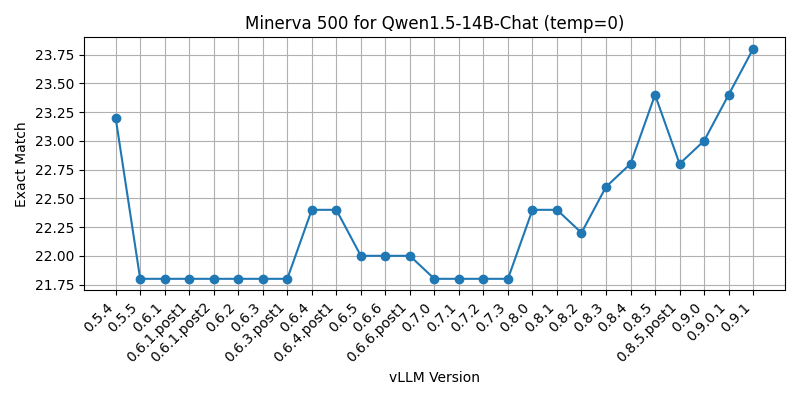
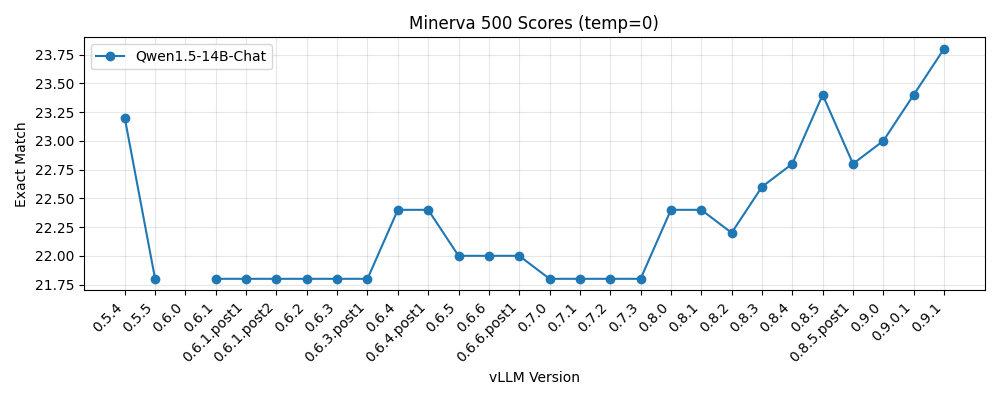
fix versioning

diff --git a/beaker/render_results.py b/beaker/render_results.py
@@ -2,48 +2,44 @@ import matplotlib.pyplot as plt
 from packaging import version
 
 # Data pulled from Beaker
-data = [
-    {"model": "Qwen/Qwen1.5-14B-Chat", "score": 0.226, "vllm_version": "0.8.3"},
-    {"model": "Qwen/Qwen1.5-14B-Chat", "score": 0.224, "vllm_version": "0.8.0"},
-    {"model": "Qwen/Qwen1.5-14B-Chat", "score": 0.22, "vllm_version": "0.6.6.post1"},
-    {"model": "Qwen/Qwen1.5-14B-Chat", "score": 0.228, "vllm_version": "0.8.4"},
-    {"model": "Qwen/Qwen1.5-14B-Chat", "score": 0.228, "vllm_version": "0.8.5.post1"},
-    {"model": "Qwen/Qwen1.5-14B-Chat", "score": 0.238, "vllm_version": "0.9.1"},
-    {"model": "Qwen/Qwen1.5-14B-Chat", "score": 0.222, "vllm_version": "0.8.2"},
-    {"model": "Qwen/Qwen1.5-14B-Chat", "score": 0.22, "vllm_version": "0.6.6"},
-    {"model": "Qwen/Qwen1.5-14B-Chat", "score": 0.224, "vllm_version": "0.8.1"},
-    {"model": "Qwen/Qwen1.5-14B-Chat", "score": 0.224, "vllm_version": "0.6.4.post1"},
-    {"model": "Qwen/Qwen1.5-14B-Chat", "score": 0.22, "vllm_version": "0.6.5"},
-    {"model": "Qwen/Qwen1.5-14B-Chat", "score": 0.23, "vllm_version": "0.9.0"},
-    {"model": "Qwen/Qwen1.5-14B-Chat", "score": 0.234, "vllm_version": "0.9.0.1"},
-    {"model": "Qwen/Qwen1.5-14B-Chat", "score": 0.234, "vllm_version": "0.8.5"},
-    {"model": "Qwen/Qwen1.5-14B-Chat", "score": 0.218, "vllm_version": "0.7.2"},
-    {"model": "Qwen/Qwen1.5-14B-Chat", "score": 0.218, "vllm_version": "0.7.3"},
-    {"model": "Qwen/Qwen1.5-14B-Chat", "score": 0.218, "vllm_version": "0.5.5"},
-    {"model": "Qwen/Qwen1.5-14B-Chat", "score": 0.218, "vllm_version": "0.7.0"},
-    {"model": "Qwen/Qwen1.5-14B-Chat", "score": 0.218, "vllm_version": "0.6.2"},
-    {"model": "Qwen/Qwen1.5-14B-Chat", "score": 0.218, "vllm_version": "0.7.1"},
-    {"model": "Qwen/Qwen1.5-14B-Chat", "score": 0.224, "vllm_version": "0.6.4"},
-    {"model": "Qwen/Qwen1.5-14B-Chat", "score": 0.218, "vllm_version": "0.6.1.post1"},
-    {"model": "Qwen/Qwen1.5-14B-Chat", "score": 0.218, "vllm_version": "0.6.3.post1"},
-    {"model": "Qwen/Qwen1.5-14B-Chat", "score": 0.218, "vllm_version": "0.6.1"},
-    {"model": "Qwen/Qwen1.5-14B-Chat", "score": 0.218, "vllm_version": "0.6.3"},
-    {"model": "Qwen/Qwen1.5-14B-Chat", "score": 0.218, "vllm_version": "0.6.1.post2"},
-    {"model": "Qwen/Qwen1.5-14B-Chat", "score": 0.232, "vllm_version": "0.5.4"},
-]
+data = [{'model': 'Qwen/Qwen3-14B', 'score': 0.394, 'vllm_version': '0.9.0'}, {'model': 'Qwen/Qwen2.5-14B-Instruct', 'score': 0.746, 'vllm_version': '0.8.5.post1'}, {'model': 'Qwen/Qwen2.5-14B-Instruct', 'score': 0.742, 'vllm_version': '0.8.2'}, {'model': 'Qwen/Qwen2.5-14B-Instruct', 'score': 0.736, 'vllm_version': '0.9.1'}, {'model': 'Qwen/Qwen2.5-14B-Instruct', 'score': 0.736, 'vllm_version': '0.9.0'}, {'model': 'Qwen/Qwen2.5-14B-Instruct', 'score': 0.742, 'vllm_version': '0.8.3'}, {'model': 'Qwen/Qwen2.5-14B-Instruct', 'score': 0.732, 'vllm_version': '0.7.1'}, {'model': 'Qwen/Qwen2.5-14B-Instruct', 'score': 0.746, 'vllm_version': '0.8.1'}, {'model': 'Qwen/Qwen2.5-14B-Instruct', 'score': 0.746, 'vllm_version': '0.8.5'}, {'model': 'Qwen/Qwen2.5-14B-Instruct', 'score': 0.736, 'vllm_version': '0.6.4.post1'}, {'model': 'Qwen/Qwen2.5-14B-Instruct', 'score': 0.738, 'vllm_version': '0.8.4'}, {'model': 'Qwen/Qwen2.5-14B-Instruct', 'score': 0.736, 'vllm_version': '0.9.0.1'}, {'model': 'Qwen/Qwen2.5-14B-Instruct', 'score': 0.732, 'vllm_version': '0.7.3'}, {'model': 'Qwen/Qwen2.5-14B-Instruct', 'score': 0.736, 'vllm_version': '0.6.5'}, {'model': 'Qwen/Qwen2.5-14B-Instruct', 'score': 0.742, 'vllm_version': '0.8.0'}, {'model': 'Qwen/Qwen2.5-14B-Instruct', 'score': 0.736, 'vllm_version': '0.6.3.post1'}, {'model': 'Qwen/Qwen2.5-14B-Instruct', 'score': 0.732, 'vllm_version': '0.7.2'}, {'model': 'Qwen/Qwen2.5-14B-Instruct', 'score': 0.736, 'vllm_version': '0.6.4'}, {'model': 'Qwen/Qwen2.5-14B-Instruct', 'score': 0.736, 'vllm_version': '0.6.2'}, {'model': 'Qwen/Qwen2.5-14B-Instruct', 'score': 0.736, 'vllm_version': '0.6.6.post1'}, {'model': 'Qwen/Qwen2.5-14B-Instruct', 'score': 0.736, 'vllm_version': '0.6.6'}, {'model': 'Qwen/Qwen2.5-14B-Instruct', 'score': 0.736, 'vllm_version': '0.6.3'}, {'model': 'Qwen/Qwen2.5-14B-Instruct', 'score': 0.736, 'vllm_version': '0.6.1.post2'}, {'model': 'Qwen/Qwen2.5-14B-Instruct', 'score': 0.736, 'vllm_version': '0.6.1'}, {'model': 'Qwen/Qwen2.5-14B-Instruct', 'score': 0.736, 'vllm_version': '0.6.1.post1'}, {'model': 'Qwen/Qwen2.5-14B-Instruct', 'score': 0.736, 'vllm_version': '0.6.0'}, {'model': 'Qwen/Qwen2.5-14B-Instruct', 'score': 0.738, 'vllm_version': '0.5.5'}, {'model': 'Qwen/Qwen2.5-14B-Instruct', 'score': 0.73, 'vllm_version': '0.5.4'}, {'model': 'Qwen/Qwen1.5-14B-Chat', 'score': 0.214, 'vllm_version': '0.8.2'}, {'model': 'Qwen/Qwen1.5-14B-Chat', 'score': 0.22, 'vllm_version': '0.9.1'}, {'model': 'Qwen/Qwen1.5-14B-Chat', 'score': 0.228, 'vllm_version': '0.8.5.post1'}, {'model': 'Qwen/Qwen1.5-14B-Chat', 'score': 0.23, 'vllm_version': '0.9.0'}, {'model': 'Qwen/Qwen1.5-14B-Chat', 'score': 0.224, 'vllm_version': '0.8.0'}, {'model': 'Qwen/Qwen1.5-14B-Chat', 'score': 0.226, 'vllm_version': '0.8.3'}, {'model': 'Qwen/Qwen1.5-14B-Chat', 'score': 0.218, 'vllm_version': '0.7.0'}, {'model': 'Qwen/Qwen1.5-14B-Chat', 'score': 0.224, 'vllm_version': '0.6.4.post1'}, {'model': 'Qwen/Qwen1.5-14B-Chat', 'score': 0.226, 'vllm_version': '0.8.4'}, {'model': 'Qwen/Qwen1.5-14B-Chat', 'score': 0.226, 'vllm_version': '0.8.1'}, {'model': 'Qwen/Qwen1.5-14B-Chat', 'score': 0.218, 'vllm_version': '0.7.3'}, {'model': 'Qwen/Qwen1.5-14B-Chat', 'score': 0.22, 'vllm_version': '0.6.5'}, {'model': 'Qwen/Qwen1.5-14B-Chat', 'score': 0.218, 'vllm_version': '0.6.2'}, {'model': 'Qwen/Qwen1.5-14B-Chat', 'score': 0.218, 'vllm_version': '0.6.3'}, {'model': 'Qwen/Qwen1.5-14B-Chat', 'score': 0.23, 'vllm_version': '0.9.0.1'}, {'model': 'Qwen/Qwen1.5-14B-Chat', 'score': 0.228, 'vllm_version': '0.8.5'}, {'model': 'Qwen/Qwen1.5-14B-Chat', 'score': 0.22, 'vllm_version': '0.6.6'}, {'model': 'Qwen/Qwen1.5-14B-Chat', 'score': 0.218, 'vllm_version': '0.7.2'}, {'model': 'Qwen/Qwen1.5-14B-Chat', 'score': 0.218, 'vllm_version': '0.6.3.post1'}, {'model': 'Qwen/Qwen1.5-14B-Chat', 'score': 0.218, 'vllm_version': '0.7.1'}, {'model': 'Qwen/Qwen1.5-14B-Chat', 'score': 0.22, 'vllm_version': '0.6.6.post1'}, {'model': 'Qwen/Qwen1.5-14B-Chat', 'score': 0.224, 'vllm_version': '0.6.4'}, {'model': 'Qwen/Qwen1.5-14B-Chat', 'score': 0.218, 'vllm_version': '0.6.1.post2'}, {'model': 'Qwen/Qwen1.5-14B-Chat', 'score': 0.218, 'vllm_version': '0.5.5'}, {'model': 'Qwen/Qwen1.5-14B-Chat', 'score': 0.232, 'vllm_version': '0.5.4'}, {'model': 'Qwen/Qwen1.5-14B-Chat', 'score': 0.218, 'vllm_version': '0.6.1.post1'}, {'model': 'Qwen/Qwen1.5-14B-Chat', 'score': 0.218, 'vllm_version': '0.6.1'}, {'model': 'Qwen/Qwen1.5-14B-Chat', 'score': 0.226, 'vllm_version': '0.8.3'}, {'model': 'Qwen/Qwen1.5-14B-Chat', 'score': 0.224, 'vllm_version': '0.8.0'}, {'model': 'Qwen/Qwen1.5-14B-Chat', 'score': 0.22, 'vllm_version': '0.6.6.post1'}, {'model': 'Qwen/Qwen1.5-14B-Chat', 'score': 0.228, 'vllm_version': '0.8.4'}, {'model': 'Qwen/Qwen1.5-14B-Chat', 'score': 0.228, 'vllm_version': '0.8.5.post1'}, {'model': 'Qwen/Qwen1.5-14B-Chat', 'score': 0.238, 'vllm_version': '0.9.1'}, {'model': 'Qwen/Qwen1.5-14B-Chat', 'score': 0.222, 'vllm_version': '0.8.2'}, {'model': 'Qwen/Qwen1.5-14B-Chat', 'score': 0.22, 'vllm_version': '0.6.6'}, {'model': 'Qwen/Qwen1.5-14B-Chat', 'score': 0.224, 'vllm_version': '0.8.1'}, {'model': 'Qwen/Qwen1.5-14B-Chat', 'score': 0.224, 'vllm_version': '0.6.4.post1'}, {'model': 'Qwen/Qwen1.5-14B-Chat', 'score': 0.22, 'vllm_version': '0.6.5'}, {'model': 'Qwen/Qwen1.5-14B-Chat', 'score': 0.23, 'vllm_version': '0.9.0'}, {'model': 'Qwen/Qwen1.5-14B-Chat', 'score': 0.234, 'vllm_version': '0.9.0.1'}, {'model': 'Qwen/Qwen1.5-14B-Chat', 'score': 0.234, 'vllm_version': '0.8.5'}, {'model': 'Qwen/Qwen1.5-14B-Chat', 'score': 0.218, 'vllm_version': '0.7.2'}, {'model': 'Qwen/Qwen1.5-14B-Chat', 'score': 0.218, 'vllm_version': '0.7.3'}, {'model': 'Qwen/Qwen1.5-14B-Chat', 'score': 0.218, 'vllm_version': '0.5.5'}, {'model': 'Qwen/Qwen1.5-14B-Chat', 'score': 0.218, 'vllm_version': '0.7.0'}, {'model': 'Qwen/Qwen1.5-14B-Chat', 'score': 0.218, 'vllm_version': '0.6.2'}, {'model': 'Qwen/Qwen1.5-14B-Chat', 'score': 0.218, 'vllm_version': '0.7.1'}, {'model': 'Qwen/Qwen1.5-14B-Chat', 'score': 0.224, 'vllm_version': '0.6.4'}, {'model': 'Qwen/Qwen1.5-14B-Chat', 'score': 0.218, 'vllm_version': '0.6.1.post1'}, {'model': 'Qwen/Qwen1.5-14B-Chat', 'score': 0.218, 'vllm_version': '0.6.3.post1'}, {'model': 'Qwen/Qwen1.5-14B-Chat', 'score': 0.218, 'vllm_version': '0.6.1'}, {'model': 'Qwen/Qwen1.5-14B-Chat', 'score': 0.218, 'vllm_version': '0.6.3'}, {'model': 'Qwen/Qwen1.5-14B-Chat', 'score': 0.218, 'vllm_version': '0.6.1.post2'}, {'model': 'Qwen/Qwen1.5-14B-Chat', 'score': 0.232, 'vllm_version': '0.5.4'}, {'model': 'Qwen/Qwen3-8B', 'score': 0.4446143372337083}, {'model': 'Qwen/Qwen3-8B', 'score': 0.4388539228639751}, {'model': 'Qwen/Qwen3-8B', 'score': 0.4389461520021281}, {'model': 'Qwen/Qwen3-8B', 'score': 0.43965981660400116}, {'model': 'Qwen/Qwen3-8B', 'score': 0.4377268437299243}, {'model': 'Qwen/Qwen3-8B', 'score': 0.43945492495763444}, {'model': 'Qwen/Qwen3-8B', 'score': 0.43727195711653144}, {'model': 'Qwen/Qwen3-8B', 'score': 0.43659835730971464}, {'model': 'Qwen/Qwen3-8B', 'score': 0.44079075400063183}, {'model': 'Qwen/Qwen3-8B', 'score': 0.4462229986228768}, {'model': 'Qwen/Qwen3-8B', 'score': 0.43945492495763444}, {'score': 0.21655294967730374}, {'score': 0.21994535237663132}, {'score': 0.21337935936345745}, {'score': 0.21933722751570706}, {'score': 0.21306816182480565}, {'score': 0.21260823309264518}, {'score': 0.21679045208434194}, {'score': 0.2132572162329963}, {'score': 0.21260823309264518}, {'score': 0.21867986178228982}, {'score': 0.21127905328216506}, {'score': 0.21254912521834554}, {'score': 0.21260823309264518}, {'score': 0.21711308602263005}, {'score': 0.2123357409125995}, {'score': 0.21260823309264518}, {'score': 0.21105136252158535}, {'score': 0.21254912521834554}, {'score': 0.21254912521834554}, {'score': 0.2123357409125995}, {'score': 0.21105136252158535}, {'score': 0.2123357409125995}, {'score': 0.2123357409125995}, {'score': 0.21788430557498778}, {'score': 0.2123357409125995}, {'score': 0.2123357409125995}, {'score': 0.2123357409125995}, {'score': 0.2123357409125995}, {'score': 0.21796553292952678}]
 
-# Sort by version number
-data.sort(key=lambda x: version.parse(x["vllm_version"]))
+data = [d for d in data if "model" in d and "vllm_version" in d]
 
-versions = [d["vllm_version"] for d in data]
-scores = [d["score"]*100 for d in data]
+# Group data by model
+model_data = {}
+for d in data:
+    model = d["model"]
+    if model not in model_data:
+        model_data[model] = []
+    model_data[model].append(d)
 
-plt.figure(figsize=(8, 4))
-plt.plot(versions, scores, marker='o')
+# Get ordered list of all versions
+all_versions = sorted(list(set(d["vllm_version"] for d in data)), key=version.parse)
+
+plt.figure(figsize=(10, 4))
+
+for model, data_points in model_data.items():
+    if model != "Qwen/Qwen1.5-14B-Chat":
+        continue
+
+    # if model != "Qwen/Qwen2.5-14B-Instruct":
+    #     continue
+
+    # Create dict mapping version to score for this model
+    version_to_score = {d["vllm_version"]: d["score"]*100 for d in data_points}
+    
+    # Get scores in version order, using None for missing versions
+    scores = [version_to_score.get(v) for v in all_versions]
+    
+    model_name = model.split('/')[-1]
+    plt.plot(all_versions, scores, marker='o', label=model_name)
+
 plt.xticks(rotation=45, ha='right')
 plt.xlabel('vLLM Version')
 plt.ylabel('Exact Match')
-plt.title('Minerva 500 for Qwen1.5-14B-Chat (temp=0)')
-plt.grid(True)
+plt.title('Minerva 500 Scores (temp=0)')
+plt.grid(True, alpha=0.3)
+plt.legend()
 plt.tight_layout()
 plt.savefig('minerva_scores.png')

diff --git a/beaker/pull_results.py b/beaker/pull_results.py
@@ -48,13 +48,15 @@ def get_results(experiments: List[Experiment]):
 def main():
     author = 'davidh'
     workspace = 'ai2/olmo-3-evals'
-    limit = 100
+    limit = 500
 
     experiments: List[Experiment] = gather_experiments(
         author_list=[author],
         workspace_name=workspace,
         limit=limit
     )
+
+    experiments = [exp for exp in experiments if 'vllm' in exp.name]
 
     print(get_results(experiments))
 

diff --git a/README.md b/README.md
@@ -47,8 +47,17 @@ python beaker/launch_jobs.py --model Qwen/Qwen2.5-14B-Instruct
 python beaker/launch_jobs.py --model Qwen/Qwen3-14B
 
 # Gather results
+pip install beaker-py==1.36.2 # need to update script
 python beaker/pull_results.py
+pip install -U beaker-py
 
 # Render figure
 python beaker/render_results.py
 ```
+
+### Known Issues
+- (Fixed) vLLM 0.2.1 was yanked -- https://pypi.org/project/vllm/0.2.1/
+- (Fixed) Some vLLM releases rely on `pip install vllm-flash-attn==2.5.8.post3` -- which was yanked for PyPi. https://pypi.org/project/vllm-flash-attn/2.5.8.post3/
+- (Fixed) vLLM 0.2.4 requires strict CUDA verisoning -- https://beaker.allen.ai/orgs/ai2/workspaces/olmo-3-evals/work/01JZBJK2J3QH4G5AZW2VKZVSXV/logs?jobId=01JZBJK3418ZG8Z6RRXYV298DR
+- Seeing failures for v0.5.xx due to requirement failures -- https://beaker.allen.ai/orgs/ai2/workspaces/olmo-3-evals/work/01JZBJK2PYC39EFBQ9AKFZQVJC/logs?jobId=01JZBJK3409HHFG5JXF649PQRF
+- Geneartion is broken on v0.6.0 -- https://beaker.allen.ai/orgs/ai2/workspaces/olmo-3-evals/work/01JZBJK5QMFBR1PHDFP08J93SD
